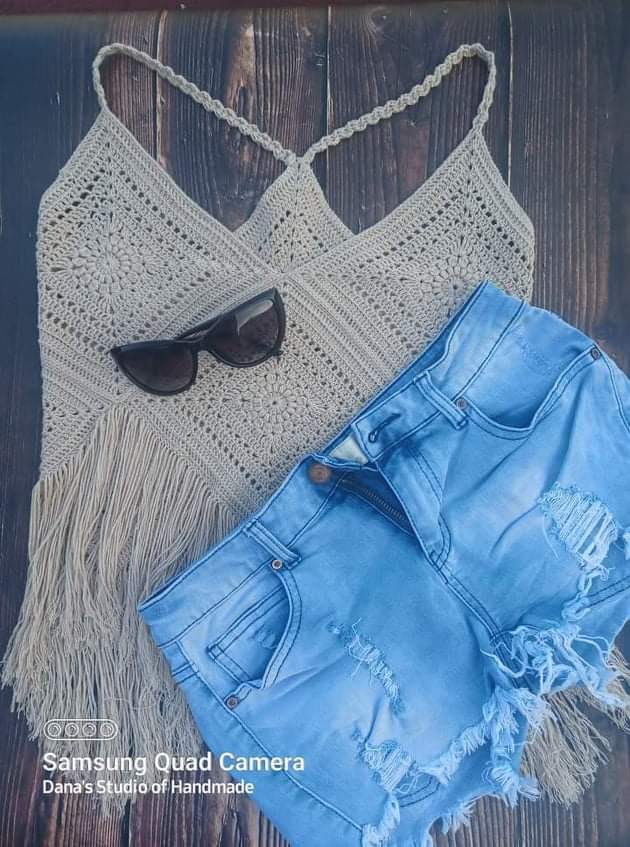
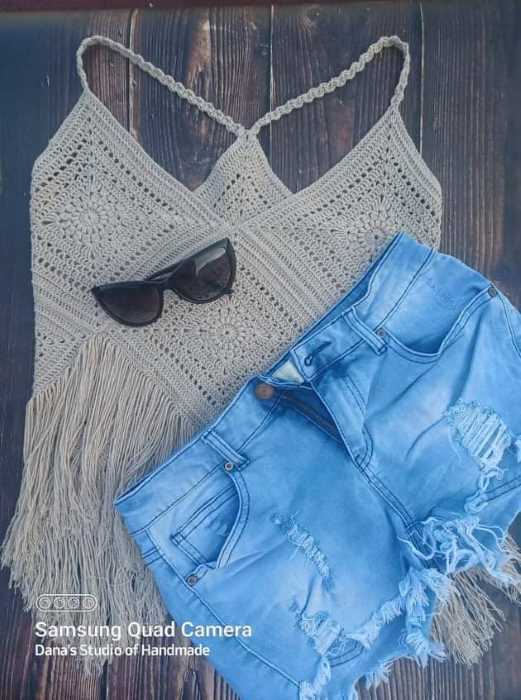
Resized all images in my webpage to optimize  speed

Changed region(s): [[0.1228, 0.84, 0.1536, 0.87]]

diff --git a/index.html b/index.html
@@ -67,7 +67,7 @@
     her own as the years progressed. To create one piece not only takes time but also the utmost concentration and care, a skill which Dana has honed and perfected over the last 16 years. 
     </p>
     <!--Links to some images on main page with added inline CSS styling-->
-    <img src="Images/home_picture.jpeg " style="height:450px; width:350px; margin-top: 10px; border-radius: 15px; padding: 10px;position: relative;">
+    <img src="Images/home_picture.jpeg " style="height:450px; width:337px; margin-top: 10px; border-radius: 15px; padding: 10px;position: relative;">
     <img src="Images/pic5.jpeg " style="height:350px; width:250px ;margin-top: 10px; border-radius: 15px; padding: 10px;position: relative;">
     <img src="Images/pic14.jpeg " style="height:200px; width:150px; margin-top:10px; border-radius: 15px; padding: 10px;position:relative;">
 <script src="script.js"></script><!--link to an external javascript file-->
